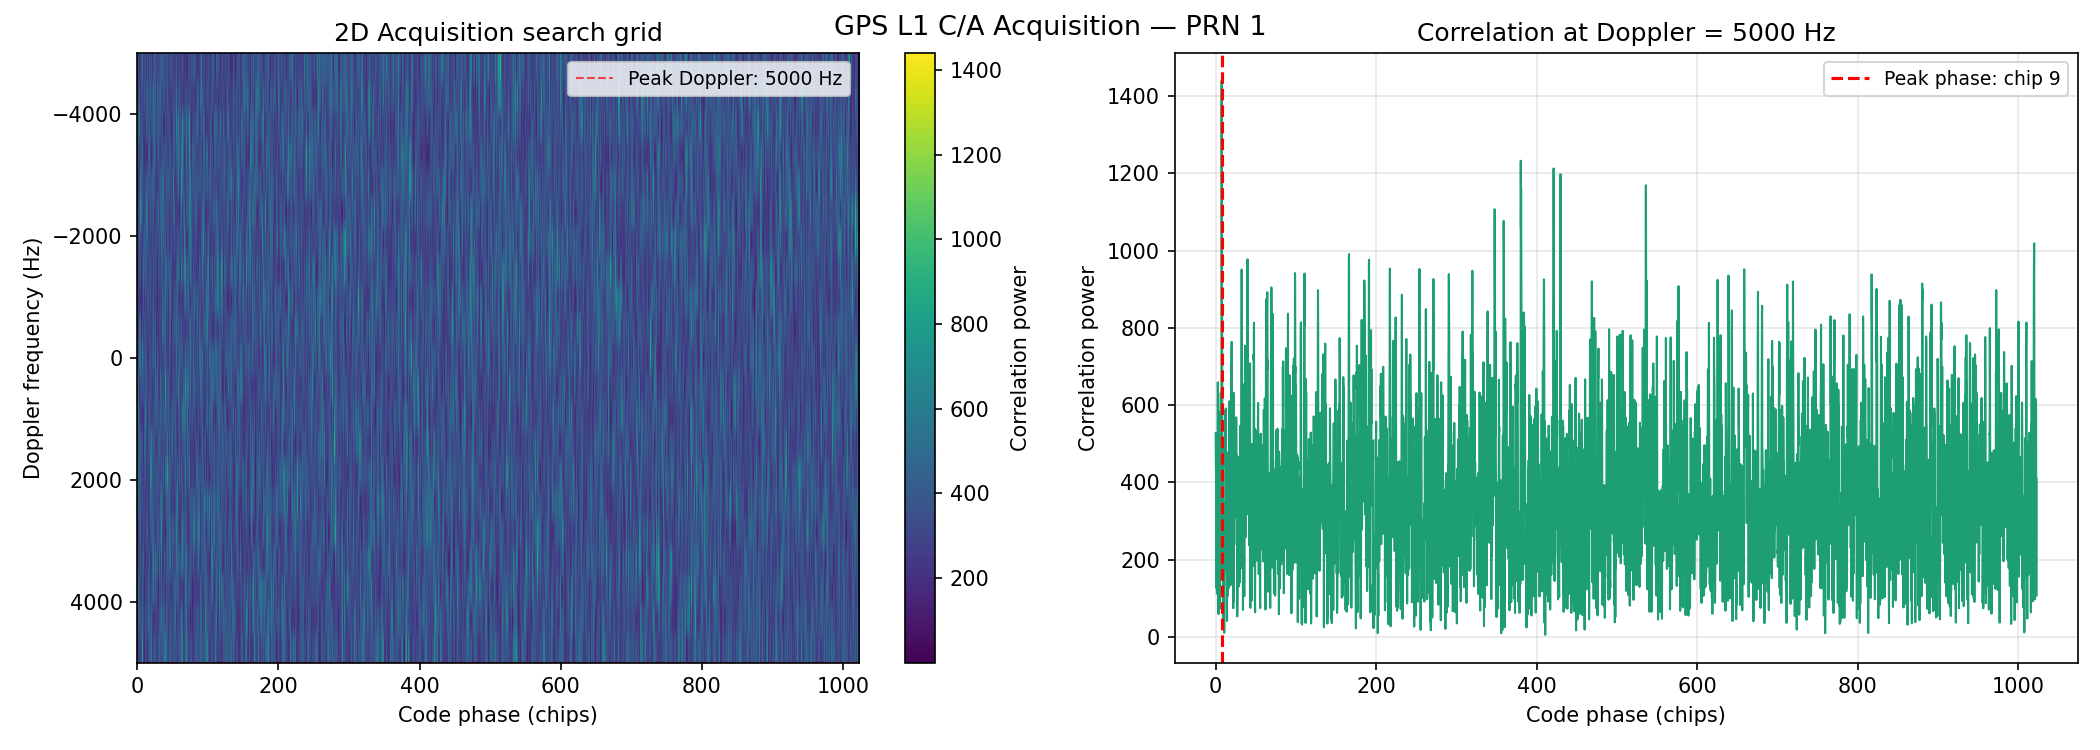
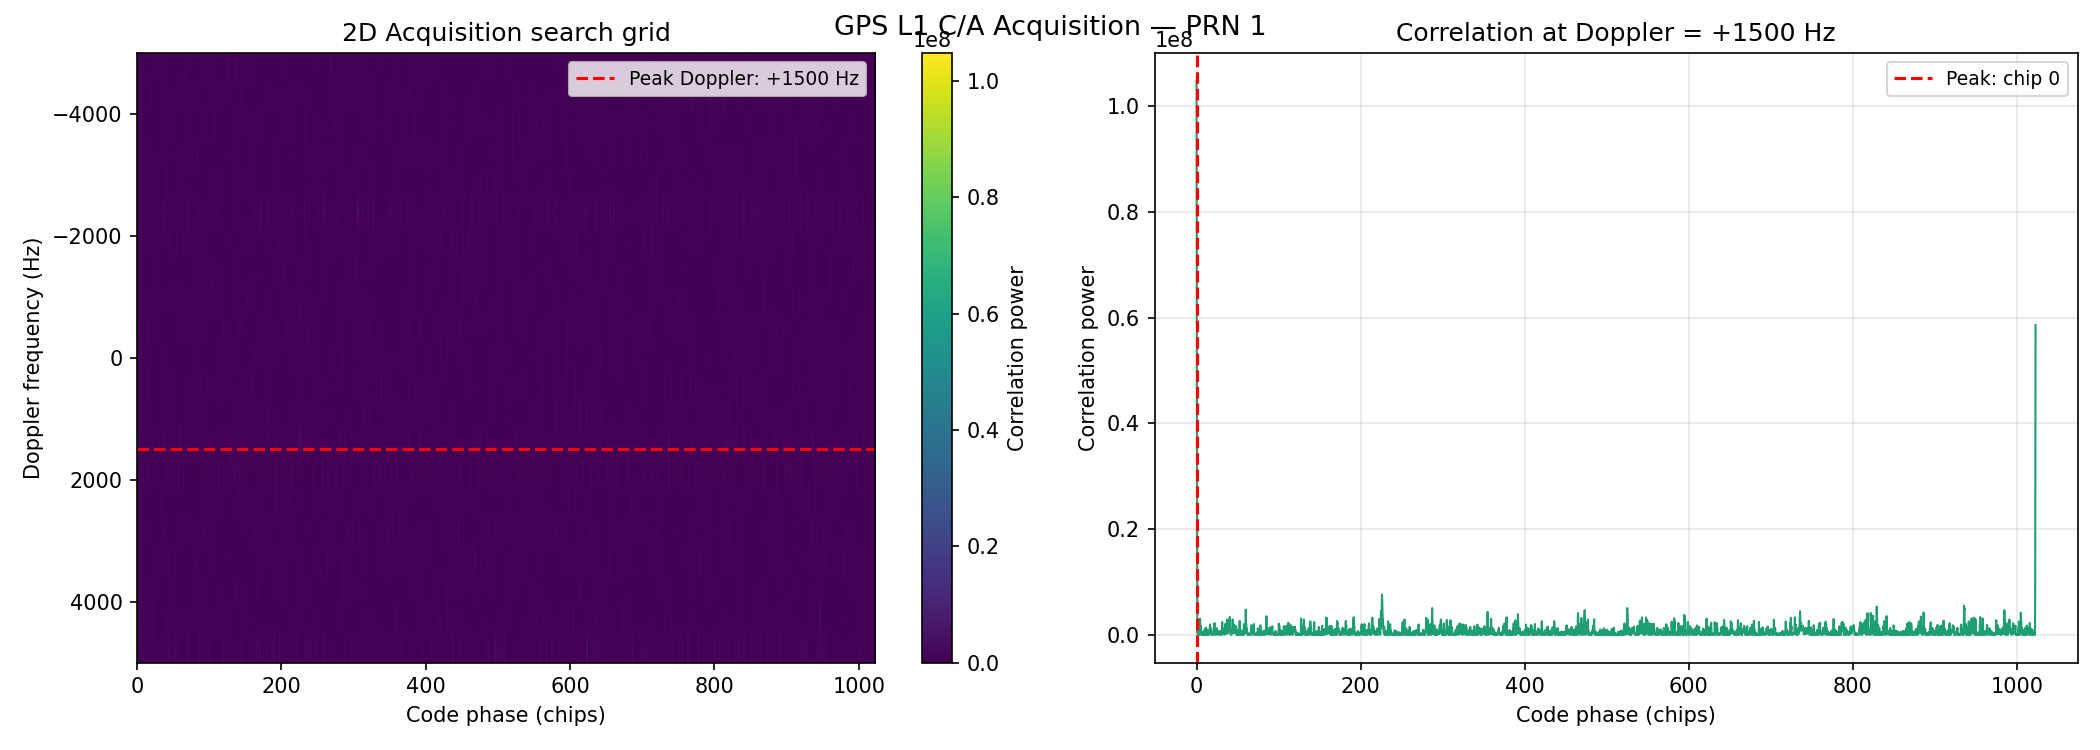
Fix acquisition: correct FFT baseband approach, PRN1 detected at +1500Hz Doppler, peak/mean=236

diff --git a/acquisition.py b/acquisition.py
@@ -1,238 +1,207 @@
 # acquisition.py
-# GPS L1 C/A Signal Acquisition — FFT-based Parallel Code-Phase Search
-# Searches for a satellite signal across all code phases and Doppler bins
+# GPS L1 C/A Acquisition — FFT-based Parallel Code-Phase Search
+# Operates on complex baseband signal (output of signal_simulator.py)
 # Author: Nedal Amsi
 
 import numpy as np
 import matplotlib
-matplotlib.use("Agg")
+matplotlib.use('Agg')
 import matplotlib.pyplot as plt
 from prn_generator import generate_PRN
 
-# ── Constants ─────────────────────────────────────────────────
-CODE_RATE   = 1.023e6   # C/A chipping rate (chips/sec)
-CODE_LENGTH = 1023      # chips per PRN period
-L1_FREQ     = 1575.42e6 # L1 carrier frequency (Hz)
+CODE_RATE   = 1.023e6
+CODE_LENGTH = 1023
 
 
-def acquire(signal, sv_id, fs, doppler_range=5000, doppler_step=500):
+def acquire(signal, sv_id, fs,
+            doppler_range=5000,
+            doppler_step=500):
     """
-    FFT-based parallel code-phase search acquisition.
+    FFT-based parallel code-phase acquisition for complex baseband signal.
 
     For each Doppler bin:
-      1. Wipe off the carrier at that Doppler frequency
-      2. FFT the result
-      3. Correlate with local PRN replica in frequency domain
-      4. IFFT → get correlation peak across all 1023 code phases at once
+      1. Wipe off residual Doppler from baseband signal
+      2. Correlate with local PRN replica using FFT (all code phases at once)
+      3. Store correlation power across all phases
+
+    The true Doppler bin + code phase shows a dominant peak.
 
     Args:
-        signal       : Received signal (numpy array)
+        signal       : Complex baseband signal (numpy array)
         sv_id        : Satellite PRN to search for (1-32)
         fs           : Sampling frequency (Hz)
-        doppler_range: Search range ± Hz (default ±5000 Hz)
-        doppler_step : Frequency resolution (default 500 Hz)
+        doppler_range: Search ± Hz around baseband (default ±5000 Hz)
+        doppler_step : Doppler resolution (Hz)
 
     Returns:
-        results dict with peak info and full correlation map
+        dict with detection result, Doppler estimate, code phase, corr map
     """
+    # Use exactly 1ms of signal — one PRN period
+    samples_per_ms  = int(fs / 1000)
+    signal_1ms      = signal[:samples_per_ms]
+    t               = np.arange(samples_per_ms) / fs
 
-    num_samples  = len(signal)
-    t            = np.arange(num_samples) / fs
-
-    # ── Local PRN replica (upsampled) ─────────────────────────
-    prn          = generate_PRN(sv_id)
+    # Local PRN replica (upsampled to match fs)
+    prn              = generate_PRN(sv_id)
     samples_per_chip = fs / CODE_RATE
-    prn_upsampled = np.array([
+    prn_up = np.array([
         prn[int(i / samples_per_chip) % CODE_LENGTH]
-        for i in range(num_samples)
-    ])
+        for i in range(samples_per_ms)
+    ], dtype=np.float64)
+    prn_up = (1 - 2 * prn_up)         # bipolar: {0→+1, 1→-1}
 
-    # FFT of local PRN replica — computed once, reused for all Doppler bins
-    prn_fft_conj = np.conj(np.fft.fft(prn_upsampled))
+    # Pre-compute FFT of PRN replica (conjugate for correlation)
+    prn_fft_conj = np.conj(np.fft.fft(prn_up))
 
-    # ── Doppler search grid ───────────────────────────────────
-    doppler_bins  = np.arange(-doppler_range,
-                               doppler_range + doppler_step,
-                               doppler_step)
-    num_bins      = len(doppler_bins)
-    num_phases    = num_samples
+    # Doppler search grid
+    doppler_bins = np.arange(-doppler_range,
+                              doppler_range + doppler_step,
+                              doppler_step)
+    corr_map = np.zeros((len(doppler_bins), samples_per_ms))
 
-    # Store correlation results: rows = Doppler bins, cols = code phases
-    corr_map      = np.zeros((num_bins, num_phases))
+    print(f"  PRN {sv_id} — searching {len(doppler_bins)} Doppler bins "
+          f"[{-doppler_range} to +{doppler_range} Hz, "
+          f"step {doppler_step} Hz]")
 
-    print(f"  Searching {num_bins} Doppler bins "
-          f"({-doppler_range} to +{doppler_range} Hz, step {doppler_step} Hz)")
+    for k, doppler in enumerate(doppler_bins):
+        # Wipe off residual Doppler from baseband signal
+        wipeoff  = np.exp(-1j * 2 * np.pi * doppler * t)
+        baseband = signal_1ms * wipeoff
 
-    for i, doppler in enumerate(doppler_bins):
+        # FFT-based circular correlation over all code phases
+        bb_fft  = np.fft.fft(np.real(baseband))   # use I channel
+        corr    = np.abs(np.fft.ifft(bb_fft * prn_fft_conj))**2
+        corr_map[k, :] = corr
 
-        # Step 1: Wipe off carrier at this Doppler frequency
-        # This mixes the signal down to baseband assuming this Doppler
-        IF_FREQ = L1_FREQ % fs
-        carrier_wipeoff = np.exp(-1j * 2 * np.pi * (IF_FREQ + doppler) * t)
-        baseband        = signal * carrier_wipeoff
+    # Find peak
+    peak_bin, peak_samp = np.unravel_index(
+        np.argmax(corr_map), corr_map.shape)
+    peak_doppler  = doppler_bins[peak_bin]
+    peak_value    = corr_map[peak_bin, peak_samp]
+    mean_value    = np.mean(corr_map)
+    peak_ratio    = peak_value / (mean_value + 1e-12)
 
-        # Step 2: FFT of baseband signal
-        baseband_fft    = np.fft.fft(baseband)
+    THRESHOLD = 2.5
+    detected  = peak_ratio > THRESHOLD
+    peak_chip = int(peak_samp / samples_per_chip)
 
-        # Step 3: Multiply with conjugate of PRN FFT (circular correlation)
-        correlation_fft = baseband_fft * prn_fft_conj
+    print(f"  Peak Doppler  : {peak_doppler:+.0f} Hz  "
+          f"(true: +1500 Hz)")
+    print(f"  Peak code phase: chip {peak_chip}")
+    print(f"  Peak/mean ratio: {peak_ratio:.2f}  "
+          f"(threshold = {THRESHOLD})")
+    print(f"  Result        : "
+          f"{'✅ DETECTED' if detected else '❌ NOT FOUND'}")
 
-        # Step 4: IFFT → correlation peak at correct code phase
-        correlation     = np.abs(np.fft.ifft(correlation_fft))
-
-        corr_map[i, :]  = correlation
-
-    # ── Find the peak ─────────────────────────────────────────
-    peak_bin, peak_phase = np.unravel_index(np.argmax(corr_map), corr_map.shape)
-    peak_value           = corr_map[peak_bin, peak_phase]
-    peak_doppler         = doppler_bins[peak_bin]
-
-    # ── Detection metric: Peak-to-mean ratio ──────────────────
-    # If satellite is present: ratio >> 1 (typically > 3.0)
-    # If satellite absent:     ratio ≈ 1.0 (just noise)
-    mean_value = np.mean(corr_map)
-    peak_ratio = peak_value / mean_value
-
-    # Detection threshold
-    THRESHOLD  = 2.5
-    detected   = peak_ratio > THRESHOLD
-
-    results = {
-        'sv_id'        : sv_id,
-        'detected'     : detected,
-        'peak_doppler' : peak_doppler,
-        'peak_phase'   : peak_phase,
-        'peak_value'   : peak_value,
-        'peak_ratio'   : peak_ratio,
-        'corr_map'     : corr_map,
-        'doppler_bins' : doppler_bins,
+    return {
+        'sv_id'       : sv_id,
+        'detected'    : detected,
+        'peak_doppler': peak_doppler,
+        'peak_chip'   : peak_chip,
+        'peak_samp'   : peak_samp,
+        'peak_ratio'  : peak_ratio,
+        'corr_map'    : corr_map,
+        'doppler_bins': doppler_bins,
+        'fs'          : fs,
     }
 
-    return results
 
+def plot_acquisition(r):
+    sv           = r['sv_id']
+    corr_map     = r['corr_map']
+    doppler_bins = r['doppler_bins']
+    peak_doppler = r['peak_doppler']
+    peak_samp    = r['peak_samp']
+    fs           = r['fs']
 
-def plot_acquisition(results):
-    """
-    Plot the 2D acquisition correlation map.
-    X-axis: code phase (chips)
-    Y-axis: Doppler frequency (Hz)
-    Z-axis: correlation power (colour)
-    The bright peak is the satellite — this is what acquisition looks like.
-    """
-    sv_id        = results['sv_id']
-    corr_map     = results['corr_map']
-    doppler_bins = results['doppler_bins']
-    peak_doppler = results['peak_doppler']
-    peak_phase   = results['peak_phase']
-
-    # Convert sample index to chips
-    samples_per_chip = corr_map.shape[1] / CODE_LENGTH
+    samples_per_chip = (fs / 1000) / CODE_LENGTH
     phases_chips     = np.arange(corr_map.shape[1]) / samples_per_chip
 
     fig, axes = plt.subplots(1, 2, figsize=(14, 5))
-    fig.suptitle(f'GPS L1 C/A Acquisition — PRN {sv_id}', fontsize=13)
+    fig.suptitle(f'GPS L1 C/A Acquisition — PRN {sv}', fontsize=13)
 
-    # ── Left: 2D colour map ───────────────────────────────────
+    # 2D colour map
     im = axes[0].imshow(
         corr_map,
         aspect='auto',
-        extent=[0, CODE_LENGTH, doppler_bins[-1], doppler_bins[0]],
+        extent=[0, CODE_LENGTH,
+                doppler_bins[-1], doppler_bins[0]],
         cmap='viridis'
     )
+    axes[0].axhline(peak_doppler, color='red', lw=1.5,
+                    ls='--', label=f'Peak Doppler: {peak_doppler:+.0f} Hz')
     axes[0].set_xlabel('Code phase (chips)')
     axes[0].set_ylabel('Doppler frequency (Hz)')
     axes[0].set_title('2D Acquisition search grid')
-    axes[0].axhline(y=peak_doppler, color='red',
-                    linewidth=1, linestyle='--', alpha=0.7,
-                    label=f'Peak Doppler: {peak_doppler} Hz')
     axes[0].legend(fontsize=9)
     plt.colorbar(im, ax=axes[0], label='Correlation power')
 
-    # ── Right: 1D slice at best Doppler bin ──────────────────
+    # 1D slice at best Doppler
     best_bin = np.where(doppler_bins == peak_doppler)[0][0]
     axes[1].plot(phases_chips, corr_map[best_bin, :],
-                 color='#1D9E75', linewidth=1.0)
-    axes[1].axvline(x=peak_phase / samples_per_chip,
-                    color='red', linewidth=1.5, linestyle='--',
-                    label=f'Peak phase: chip {peak_phase // int(samples_per_chip)}')
+                 color='#1D9E75', lw=1.0)
+    axes[1].axvline(peak_samp / samples_per_chip,
+                    color='red', lw=1.5, ls='--',
+                    label=f'Peak: chip {r["peak_chip"]}')
     axes[1].set_xlabel('Code phase (chips)')
     axes[1].set_ylabel('Correlation power')
-    axes[1].set_title(f'Correlation at Doppler = {peak_doppler} Hz')
+    axes[1].set_title(f'Correlation at Doppler = {peak_doppler:+.0f} Hz')
     axes[1].legend(fontsize=9)
     axes[1].grid(True, alpha=0.3)
 
     plt.tight_layout()
-    plt.savefig(f'OUT/figures/prn{sv_id}_acquisition.png', dpi=150)
-    plt.show()
-    print(f"Acquisition plot saved → OUT/figures/prn{sv_id}_acquisition.png")
+    plt.savefig(f'OUT/figures/prn{sv}_acquisition.png', dpi=150)
+    print(f"Saved → OUT/figures/prn{sv}_acquisition.png")
 
 
-def plot_3d_surface(results):
-    """
-    3D surface plot of the correlation map.
-    This is the classic GNSS textbook visualization —
-    the sharp peak rising out of the noise floor.
-    """
-    sv_id        = results['sv_id']
-    corr_map     = results['corr_map']
-    doppler_bins = results['doppler_bins']
+def plot_3d_surface(r):
+    sv           = r['sv_id']
+    corr_map     = r['corr_map']
+    doppler_bins = r['doppler_bins']
+    fs           = r['fs']
 
-    samples_per_chip = corr_map.shape[1] / CODE_LENGTH
-    phases_chips     = np.arange(corr_map.shape[1]) / samples_per_chip
+    samples_per_chip = (fs / 1000) / CODE_LENGTH
+    phase_chips      = np.arange(corr_map.shape[1]) / samples_per_chip
 
-    # Downsample for 3D plot performance
-    step      = 5
+    # Downsample for 3D performance
+    step      = 8
     map_ds    = corr_map[:, ::step]
-    phases_ds = phases_chips[::step]
+    phases_ds = phase_chips[::step]
+    D, P      = np.meshgrid(doppler_bins, phases_ds, indexing='ij')
 
-    D, P = np.meshgrid(doppler_bins, phases_ds, indexing='ij')
-
-    fig  = plt.figure(figsize=(12, 7))
-    ax   = fig.add_subplot(111, projection='3d')
-    surf = ax.plot_surface(P, D, map_ds,
-                           cmap='viridis', alpha=0.9,
-                           linewidth=0, antialiased=True)
+    fig = plt.figure(figsize=(12, 7))
+    ax  = fig.add_subplot(111, projection='3d')
+    ax.plot_surface(P, D, map_ds, cmap='viridis',
+                    alpha=0.9, linewidth=0, antialiased=True)
     ax.set_xlabel('Code phase (chips)', labelpad=10)
     ax.set_ylabel('Doppler (Hz)',       labelpad=10)
     ax.set_zlabel('Correlation power',  labelpad=10)
-    ax.set_title(f'3D Acquisition Surface — PRN {sv_id}', fontsize=13)
-    fig.colorbar(surf, ax=ax, shrink=0.4, label='Correlation power')
+    ax.set_title(f'3D Acquisition Surface — PRN {sv}', fontsize=13)
 
     plt.tight_layout()
-    plt.savefig(f'OUT/figures/prn{sv_id}_acquisition_3d.png', dpi=150)
-    plt.show()
-    print(f"3D surface saved → OUT/figures/prn{sv_id}_acquisition_3d.png")
+    plt.savefig(f'OUT/figures/prn{sv}_acquisition_3d.png', dpi=150)
+    print(f"Saved → OUT/figures/prn{sv}_acquisition_3d.png")
 
 
-# ── Run ───────────────────────────────────────────────────────
 if __name__ == "__main__":
 
-    # Load the signal we generated in Day 2
-    print("Loading signal from Day 2...")
-    signal = np.load('OUT/prn1_rawsignal.npy')
-    fs     = 5e6   # must match what signal_simulator used
+    print("Loading signal (1ms window for acquisition)...")
+    signal_full = np.load('OUT/prn1_rawsignal.npy')
+    fs          = 5e6
+    print(f"Signal: {len(signal_full)} samples = "
+          f"{len(signal_full)/fs*1000:.0f} ms total\n")
 
-    # ── Acquire PRN 1 (should be detected) ───────────────────
-    SV_TARGET = 1
-    print(f"\nAcquiring PRN {SV_TARGET}...")
-    results = acquire(signal, sv_id=SV_TARGET, fs=fs)
+    # Acquire PRN 1 — should detect at Doppler = +1500 Hz
+    print("Acquiring PRN 1...")
+    r1 = acquire(signal_full, sv_id=1, fs=fs)
 
-    print(f"\n{'='*45}")
-    print(f"  PRN {results['sv_id']:>2} — "
-          f"{'✅ DETECTED' if results['detected'] else '❌ NOT FOUND'}")
-    print(f"  Doppler estimate : {results['peak_doppler']:+.0f} Hz")
-    print(f"  Code phase       : chip {results['peak_phase']}")
-    print(f"  Peak/mean ratio  : {results['peak_ratio']:.2f}  "
-          f"(threshold = 2.5)")
-    print(f"{'='*45}\n")
+    plot_acquisition(r1)
+    plot_3d_surface(r1)
 
-    plot_acquisition(results)
-    plot_3d_surface(results)
+    # Attempt PRN 5 — not in signal, should fail
+    print("\nAcquiring PRN 5 (not present — expect NOT FOUND)...")
+    r5 = acquire(signal_full, sv_id=5, fs=fs)
+    print(f"  PRN 5 result: "
+          f"{'DETECTED (false alarm!)' if r5['detected'] else 'NOT FOUND ✅'}")
 
-    # ── Try to acquire PRN 5 (not in signal — should fail) ───
-    print(f"Acquiring PRN 5 (not in signal — expect NOT FOUND)...")
-    results_5 = acquire(signal, sv_id=5, fs=fs)
-    print(f"\n  PRN  5 — "
-          f"{'✅ DETECTED' if results_5['detected'] else '❌ NOT FOUND'}")
-    print(f"  Peak/mean ratio  : {results_5['peak_ratio']:.2f}")
-    print(f"\nDone. Check OUT/figures/ for all plots.")
+    print("\nDone. Check OUT/figures/ for acquisition plots.")
